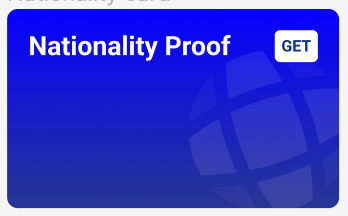
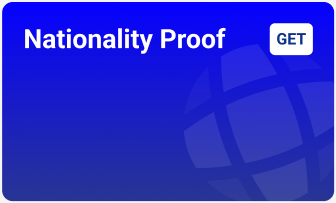
update img

Changed region(s): [[0.0, 0.0, 1.0, 1.0], [0.0595, 0.1182, 0.6845, 0.2956]]

diff --git a/templates/passbase/agerange.html b/templates/passbase/agerange.html
@@ -24,22 +24,13 @@
 
       <div id="content_smartphone" class="d-block d-sm-none">
    
-          <img src="/static/img/Id card.png" class="card-img-top mt-3 p-3">
+          <img src="/static/img/age_range.png" class="card-img-top mt-3 p-3">
             <div class="text-center my-1 p-3">
-              <p>
-                {{_('Clic below to get your Age Range Card into your wallet')}}
-              </p>
+              
+                <a href="{{deeplink_altme}}" class="bg-transparent" style="text-decoration: none;"></a> {{_('Clic below to get your Age Range Card into your wallet')}}</a>
+              
             
-                <div class="col mb-3">
-                  <a href="{{deeplink_talao}}" class="bg-transparent" style="text-decoration: none;">
-                  Talao wallet <img src="/static/img/talao.png"  style="width: 50px;">
-                  </a>
-                <br><br>
-                    <a href="{{deeplink_altme}}" class="bg-transparent" style="text-decoration: none;">
-                    Altme wallet   <img src="/static/img/altme.png"  style="width: 25px;">
-                        </a>
-                        <br> 
-          </div>
+                
         </div>
       </div>
 

diff --git a/templates/emailpass/emailpass_qrcode.html b/templates/emailpass/emailpass_qrcode.html
@@ -29,11 +29,11 @@
 
       <div id="content_smartphone" class="d-block d-sm-none mt-5"> 
       
-        <img src="/static/img/Email proof.png" class="card-img-top mt-3 p-3"> 
+        <img src="/static/img/emailproof.png" class="card-img-top mt-3 p-3"> 
        
             <div class="text-center">
               <div class="text-center my-1 p-3">
-              <p>{{_('Clic below to get your proof of email into your wallet')}} </p>
+              {{_('Clic below to get your proof of email into your wallet')}} </p>
                 <div class="col mb-3">
                       <a href="{{deeplink_talao}}" class="bg-transparent" style="text-decoration: none;">
                       Talao wallet <img src="/static/img/talao.png"  style="width: 50px;">

diff --git a/templates/passbase/kyc.html b/templates/passbase/kyc.html
@@ -24,7 +24,7 @@
 
       <div id="content_smartphone" class="d-block d-sm-none">
    
-          <img src="/static/img/Id card.png" class="card-img-top mt-5 p-3">
+          <img src="/static/img/identity.png" class="card-img-top mt-5 p-3">
             <div class="text-center my-1 p-3">
             
                 <a href="{{deeplink_altme}}"> {{_('Clic here to get your Identity Card into your wallet')}}</a>

diff --git a/templates/passbase/over18.html b/templates/passbase/over18.html
@@ -23,7 +23,7 @@
 
 
       <div id="content_smartphone" class="d-block d-sm-none">
-          <img src="/static/img/Over18.png" class="card-img-top mt-3 p-3">
+          <img src="/static/img/over18.png" class="card-img-top mt-3 p-3">
           <div class="text-center my-1 p-3">
             <a href="{{deeplink_altme}}">{{_('Clic below to get your proof of majority into your wallet')}}</a>
               
